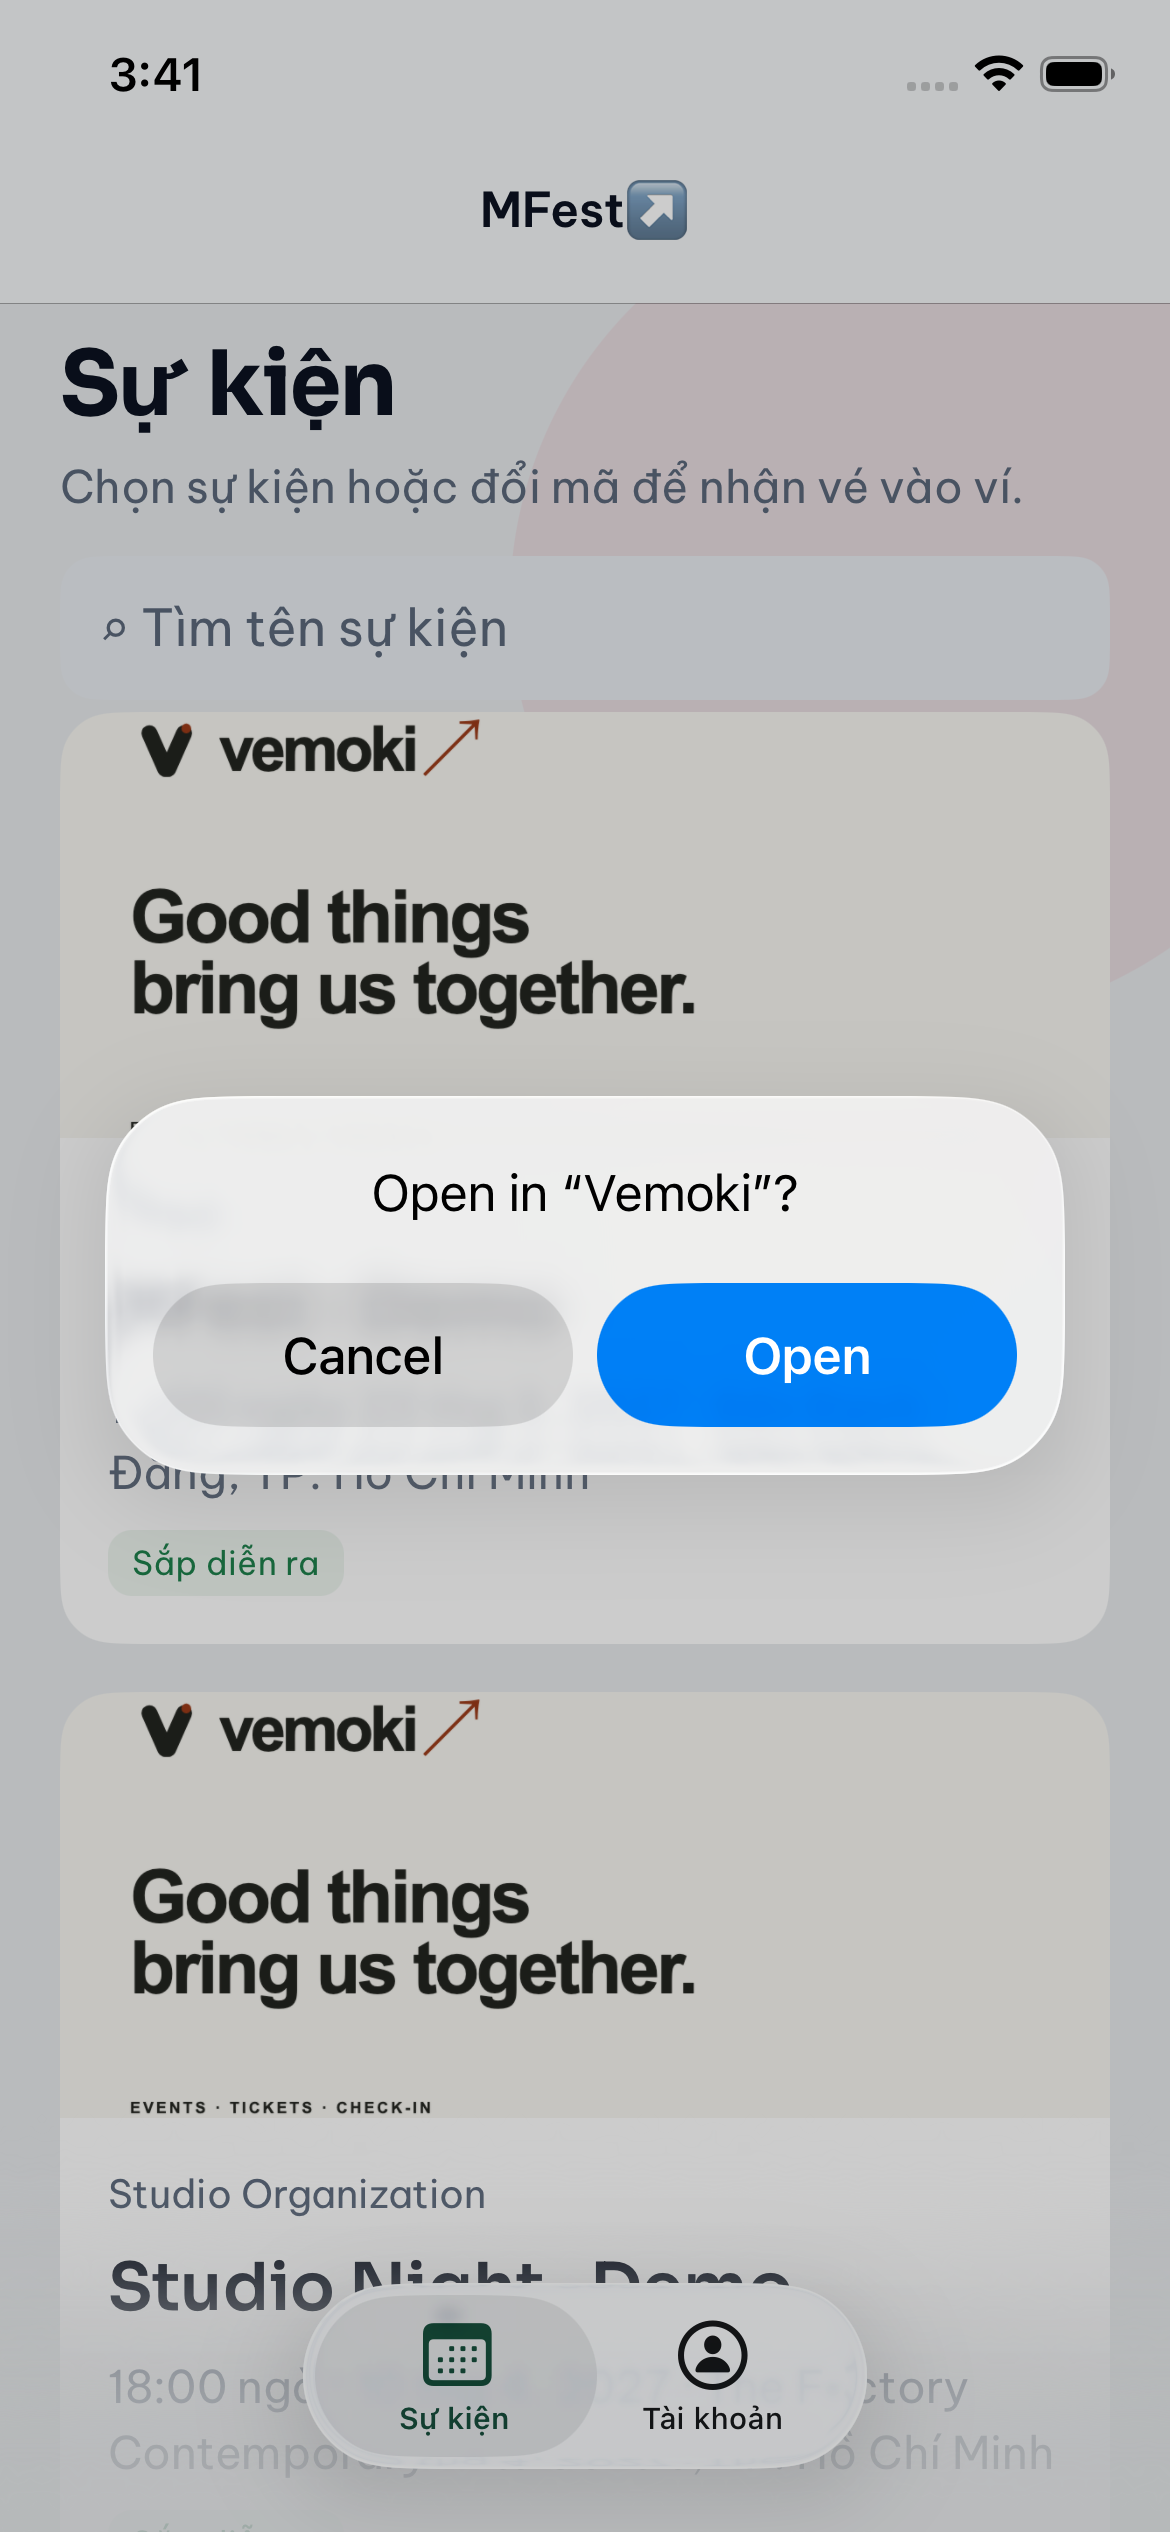
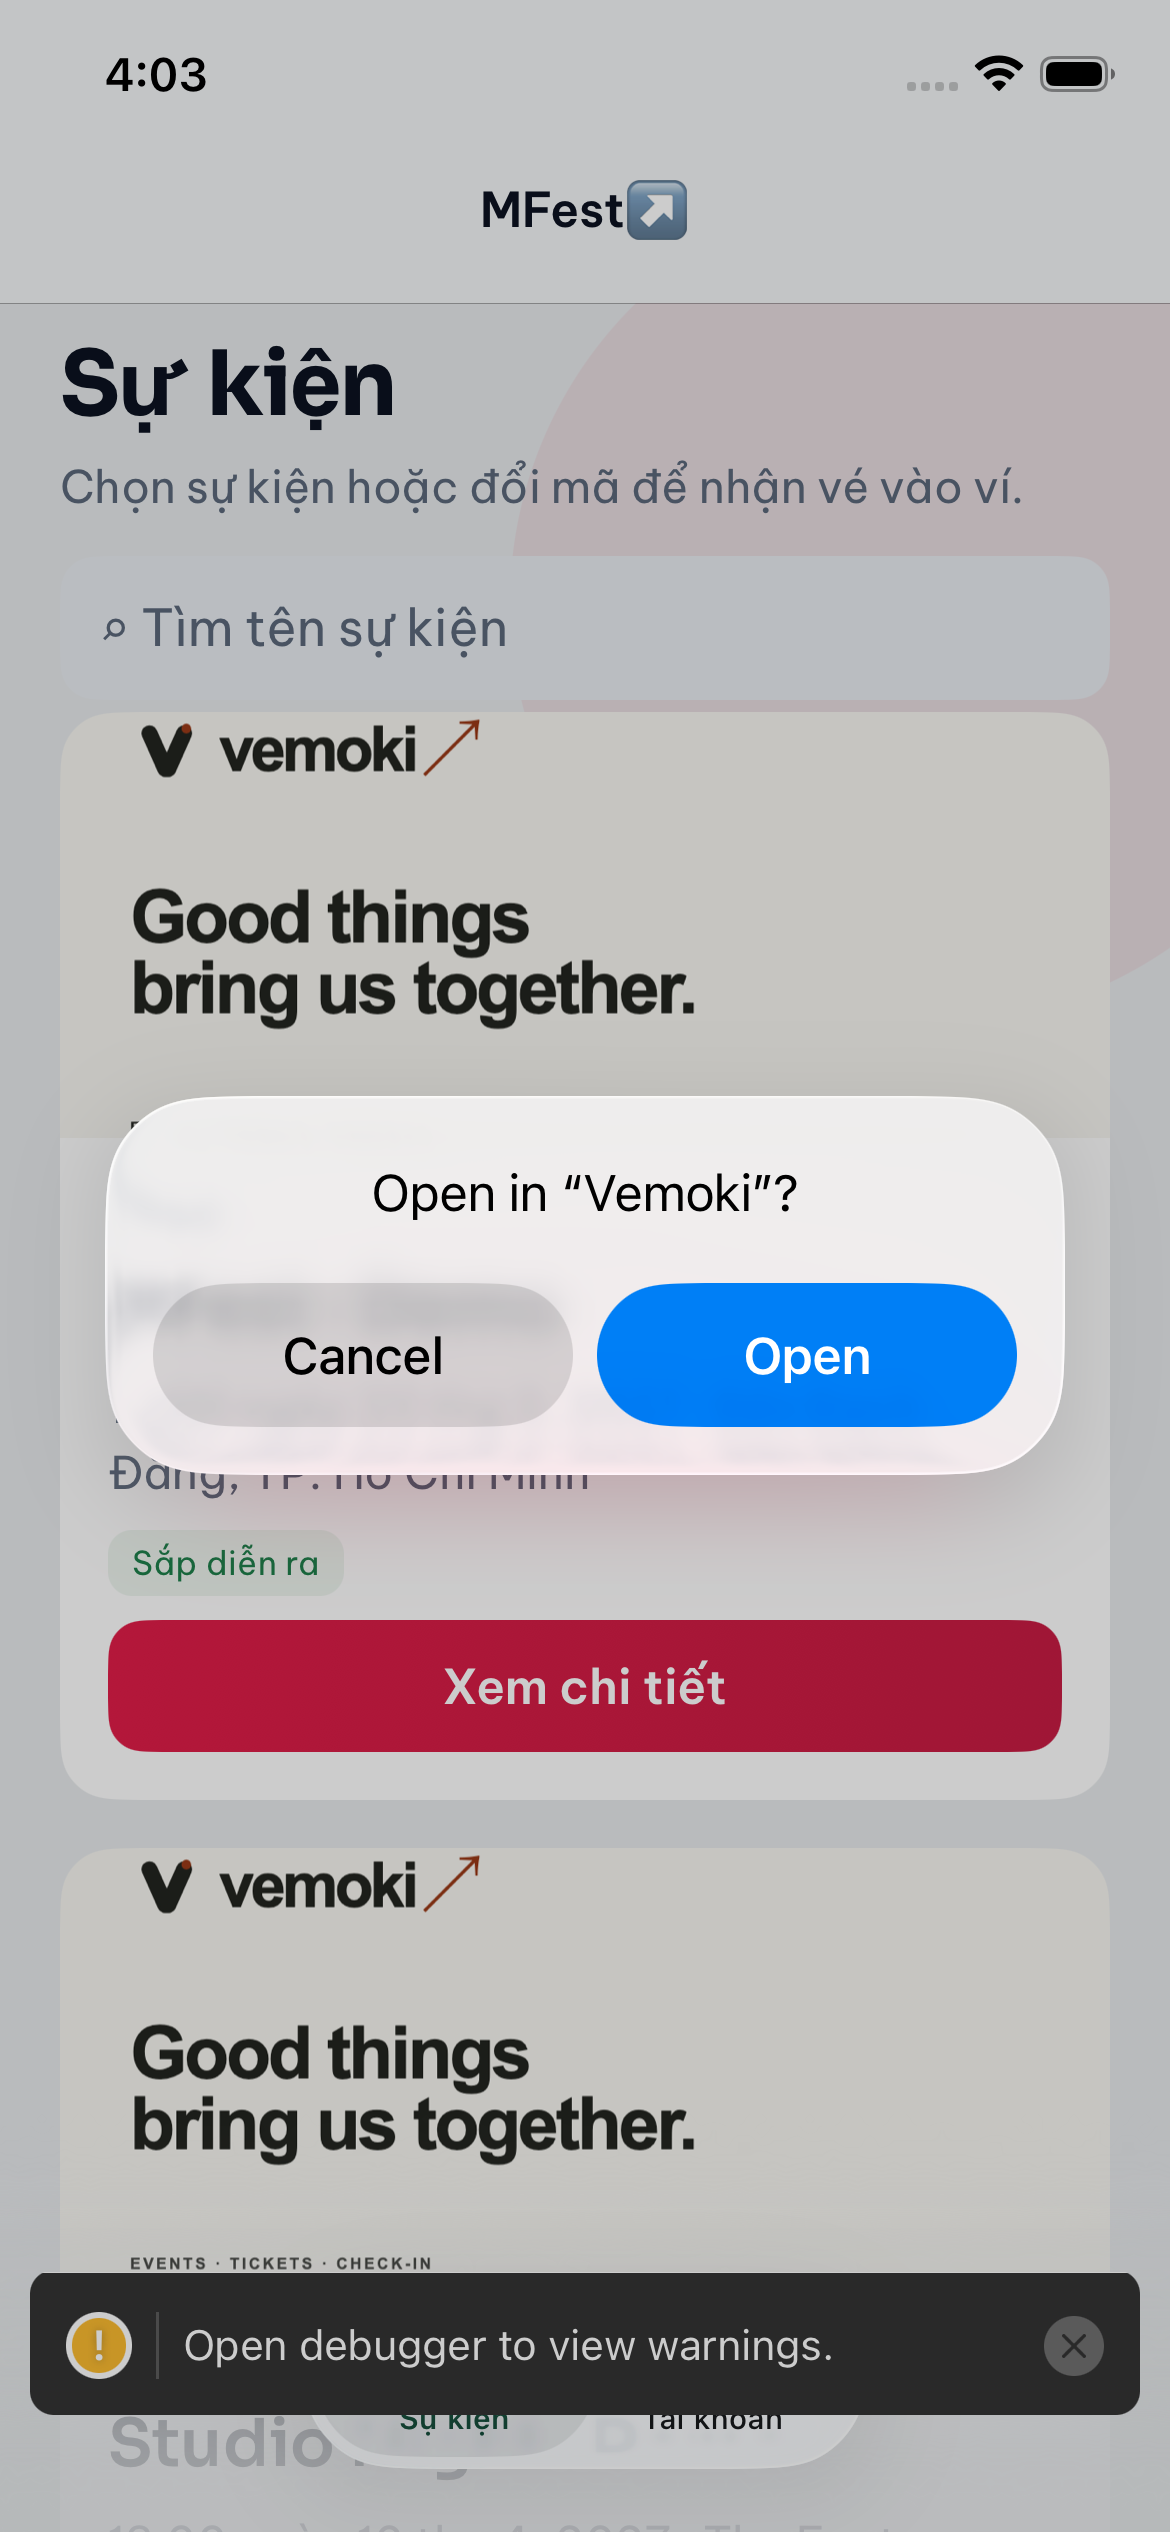
feat(mobile): attendee primary gradient on iOS Button (DS-IOS-04)
Align primary CTA with web attendeePrimary via expo-linear-gradient and signal→ink mix; refresh VD10 simulator evidence.

Changed region(s): [[0.0, 0.624, 0.9846, 0.9672], [0.0923, 0.0, 0.1538, 0.0312]]

diff --git a/apps/mobile/src/components/ui/button.tsx b/apps/mobile/src/components/ui/button.tsx
@@ -1,3 +1,4 @@
+import { LinearGradient } from 'expo-linear-gradient';
 import { useState, type ReactNode } from 'react';
 import {
   Pressable,
@@ -9,6 +10,7 @@ import {
   type ViewStyle
 } from 'react-native';
 import { Spinner } from '@/components/ui/spinner';
+import { attendeePrimaryGradient } from '@/theme/attendee-primary';
 import { colors } from '@/theme/colors';
 import { fontFamilies } from '@/theme/fonts';
 import { radius, space } from '@/theme/tokens';
@@ -59,6 +61,8 @@ export function Button({
     ...accessibilityState
   };
 
+  const showPrimaryGradient = primary && !ghost && !destructive;
+
   return (
     <Pressable
       testID={testID}
@@ -82,11 +86,12 @@ export function Button({
       style={({ pressed }) => [
         styles.base,
         size === 'lg' ? styles.sizeLg : styles.sizeMd,
+        showPrimaryGradient ? styles.primaryShell : null,
         ghost ? styles.ghost : null,
         !ghost && destructive
           ? styles.destructive
           : !ghost && primary
-            ? styles.primary
+            ? null
             : !ghost
               ? styles.secondary
               : null,
@@ -96,6 +101,17 @@ export function Button({
       ]}
       {...rest}
     >
+      {showPrimaryGradient ? (
+        <LinearGradient
+          colors={[
+            attendeePrimaryGradient.start,
+            attendeePrimaryGradient.end,
+          ]}
+          start={{ x: 0, y: 0 }}
+          end={{ x: 1, y: 1 }}
+          style={StyleSheet.absoluteFill}
+        />
+      ) : null}
       <View style={[styles.content, contentStyle]}>
         {loading ? (
           <Spinner
@@ -149,9 +165,15 @@ const styles = StyleSheet.create({
     paddingVertical: space.md + space.xxs,
     paddingHorizontal: space.lg + space.xxs
   },
-  primary: {
-    backgroundColor: colors.accent,
-    borderWidth: 0
+  primaryShell: {
+    overflow: 'hidden',
+    borderWidth: 0,
+    backgroundColor: 'transparent',
+    shadowColor: colors.signal,
+    shadowOffset: { width: 0, height: 10 },
+    shadowOpacity: 0.28,
+    shadowRadius: 14,
+    elevation: 4,
   },
   secondary: {
     backgroundColor: colors.card,

diff --git a/apps/mobile/src/theme/color-mix.ts b/apps/mobile/src/theme/color-mix.ts
@@ -1,0 +1,33 @@
+/**
+ * sRGB channel mix — mirrors CSS `color-mix(in srgb, A p%, B)`.
+ */
+export function colorMixInSrgb(
+  hexA: string,
+  hexB: string,
+  weightA: number,
+): string {
+  const a = parseHexRgb(hexA);
+  const b = parseHexRgb(hexB);
+  const w = Math.min(1, Math.max(0, weightA));
+  const mix = (ca: number, cb: number) =>
+    Math.round(ca * w + cb * (1 - w));
+  return rgbToHex(mix(a.r, b.r), mix(a.g, b.g), mix(a.b, b.b));
+}
+
+function parseHexRgb(hex: string): { r: number; g: number; b: number } {
+  const normalized = hex.trim().replace(/^#/, '');
+  if (normalized.length !== 6) {
+    throw new Error(`colorMixInSrgb: expected #RRGGBB, got ${hex}`);
+  }
+  const n = Number.parseInt(normalized, 16);
+  return {
+    r: (n >> 16) & 0xff,
+    g: (n >> 8) & 0xff,
+    b: n & 0xff,
+  };
+}
+
+function rgbToHex(r: number, g: number, b: number): string {
+  const to = (c: number) => c.toString(16).padStart(2, '0');
+  return `#${to(r)}${to(g)}${to(b)}`;
+}

diff --git a/apps/mobile/src/theme/attendee-primary.ts b/apps/mobile/src/theme/attendee-primary.ts
@@ -1,0 +1,8 @@
+import { colorMixInSrgb } from './color-mix.ts';
+import { colors } from './colors.ts';
+
+/** DEC-01 / web `attendeePrimary` — signal → color-mix(signal 88%, ink). */
+export const attendeePrimaryGradient = {
+  start: colors.signal,
+  end: colorMixInSrgb(colors.signal, colors.ink, 0.88),
+} as const;

diff --git a/apps/mobile/src/theme/color-mix.test.ts b/apps/mobile/src/theme/color-mix.test.ts
@@ -1,0 +1,8 @@
+import assert from 'node:assert/strict';
+import test from 'node:test';
+import { colorMixInSrgb } from './color-mix.ts';
+
+test('colorMixInSrgb matches web attendeePrimary stop (signal 88%, ink)', () => {
+  const mixed = colorMixInSrgb('#E11D48', '#0B1220', 0.88);
+  assert.equal(mixed, '#c71c43');
+});

diff --git a/docs/reviews/VD10-IOS-B-IOS-UI-2026-10-25.md b/docs/reviews/VD10-IOS-B-IOS-UI-2026-10-25.md
@@ -10,21 +10,23 @@
 | DS-IOS-01 | High | **Fixed** | `Button` destructive border/label/spinner → `colors.deny` (#B3213A) |
 | DS-IOS-02 | Med | **Fixed** | `colors.deny` + `themeColors().deny` → #B3213A (not `brand.signal`) |
 | DS-IOS-03 | Med | **Fixed** | `PublishedEventCard` primary CTA → shared `Button` + `eventsCopy.cardPrimaryCta` |
-| DS-IOS-04 | Low | **Deferred** | `expo-linear-gradient` not in `apps/mobile` deps — primary stays solid `colors.accent` per coordinator rule |
+| DS-IOS-04 | Low | **Fixed** | `expo-linear-gradient` + `attendeePrimaryGradient` (signal → color-mix(signal 88%, ink)); primary `Button` matches web `attendeePrimary` |
 | DS-IOS-05 | Low | **Fixed** | Focus ring `borderWidth` 2 → 3 on non-ghost `Button` |
-| DS-IOS-06 | Low | **Partial** | Simulator PNGs under `.uat-artifacts/vd10/` + `docs/reviews/assets/vd10-ios/`; embedded binary did not attach Metro — card CTA not visible in shots |
+| DS-IOS-06 | Low | **Fixed** | Debug sim + Metro 8083; PNGs refreshed with gradient CTAs visible on events card, redeem, fixture event, staff deny |
 
 ## Simulator evidence (local)
 
 | File | Screen |
 | --- | --- |
-| `docs/reviews/assets/vd10-ios/ios-events-feed.png` | Events catalog |
+| `docs/reviews/assets/vd10-ios/ios-events-feed.png` | Events catalog (card primary CTA) |
 | `docs/reviews/assets/vd10-ios/ios-redeem-global.png` | Redeem global |
-| `docs/reviews/assets/vd10-ios/ios-ticket-detail-fixture.png` | Fixture event route |
+| `docs/reviews/assets/vd10-ios/ios-ticket-detail-fixture.png` | Fixture event detail (`vemoki://events/demo-mfest`) |
 | `docs/reviews/assets/vd10-ios/ios-staff-access-deny.png` | Staff gate soft-deny |
 
-Full set (gitignored): `apps/mobile/.uat-artifacts/vd10/`.
+Capture: `xcodebuild` Debug + `expo start --port 8083 --dev-client`; `xcrun simctl openurl` + `simctl io screenshot`. Full set (gitignored): `apps/mobile/.uat-artifacts/vd10/`.
 
-## DS-IOS-04 follow-up
+## Implementation notes (DS-IOS-04)
 
-Add `expo-linear-gradient` (coordinator-approved) and map primary `Button` to restrained signal gradient aligned with web `attendeeEventSideboxCta` (signal → ink mix), not marketing neon.
+- Dependency: `expo-linear-gradient` (Expo SDK 58, via `expo install`).
+- Tokens: `src/theme/color-mix.ts`, `src/theme/attendee-primary.ts` — DEC-01 parity with `packages/ui` `attendeePrimary` gradient stop.
+- Destructive variant unchanged (deny red outline); disabled/loading/pressed use existing opacity on shell.
